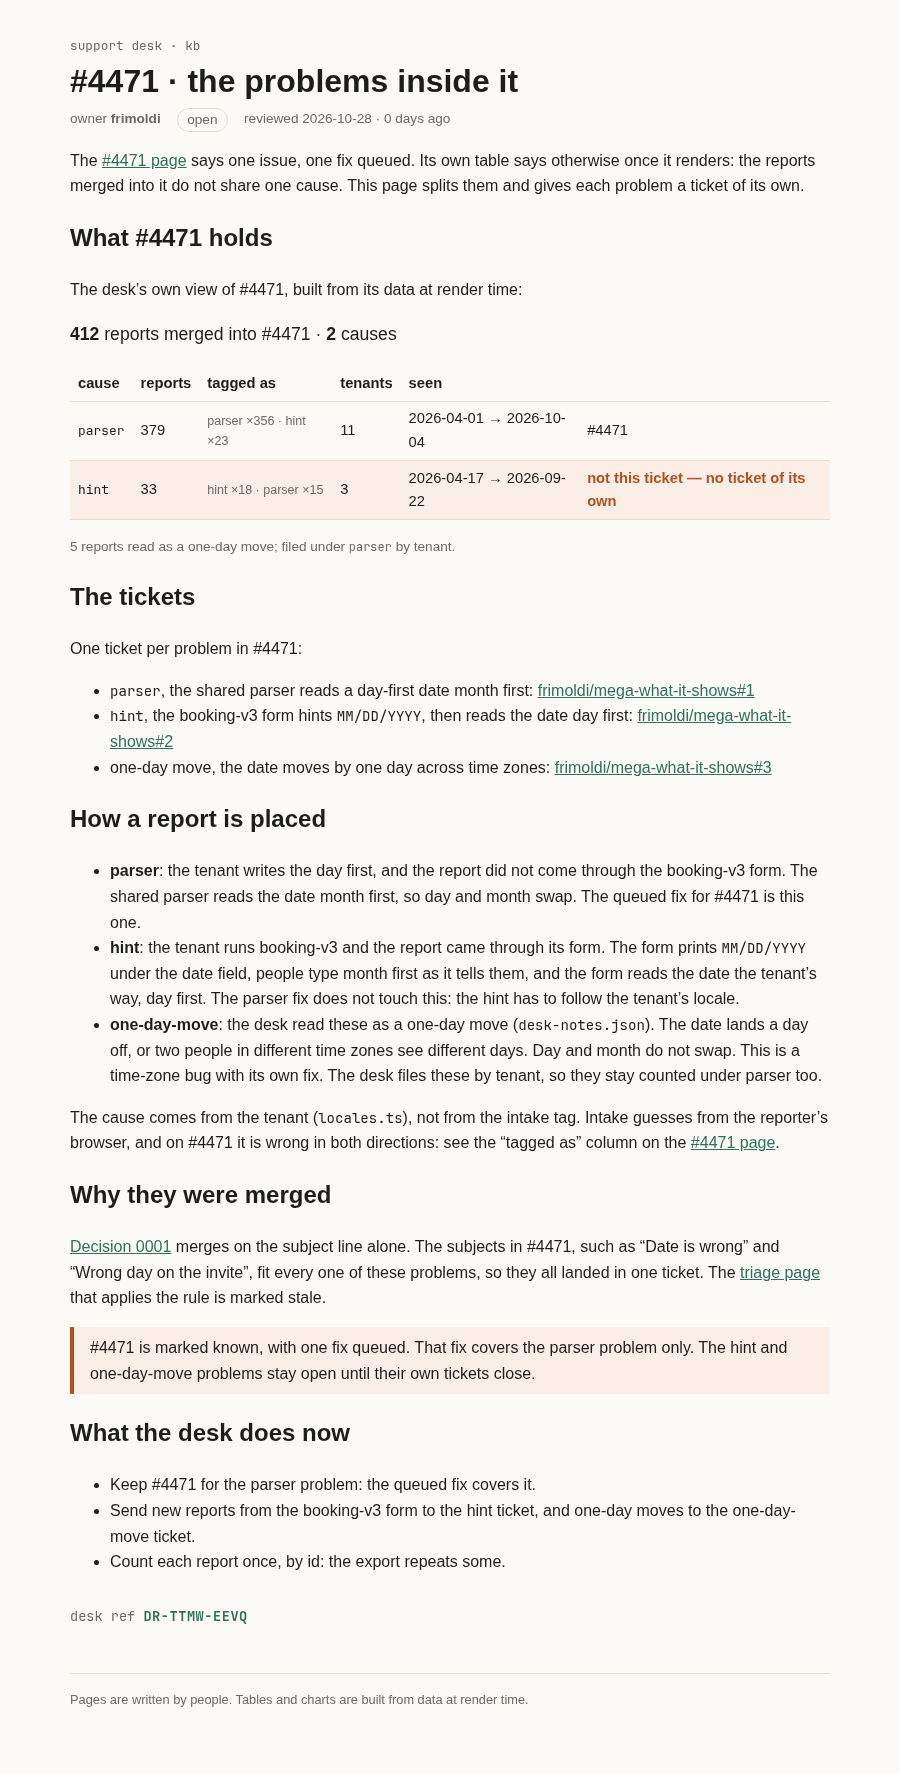
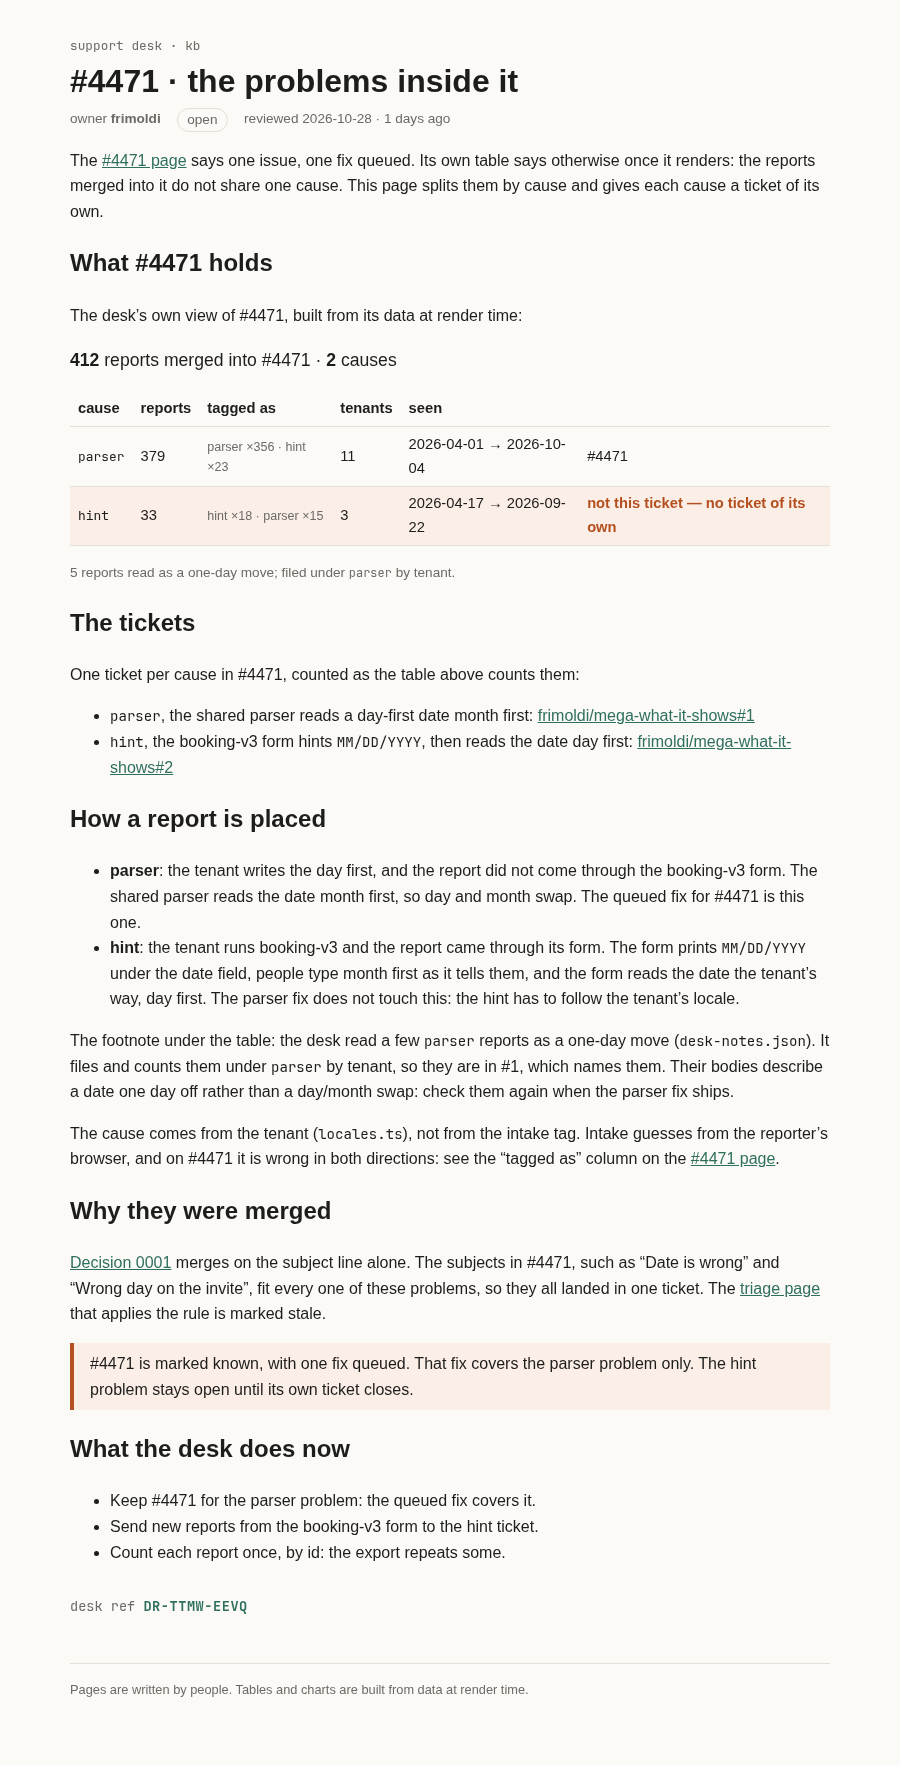
Two tickets, as the desk's view counts #4471
The desk's cause table for #4471 has two causes, parser 379 and hint 33,
which add up to its 412 reports. The 5 one-day moves are filed and counted
under parser, so they are part of #1 rather than a ticket of their own.

diff --git a/rendered/4471-problems.html b/rendered/4471-problems.html
@@ -18,23 +18,22 @@ aside.svelte-17bri61{border-left:4px solid var(--accent);background:var(--note-b
 		<link href="../../../_app/immutable/assets/_page.WePi3wDe.css" rel="stylesheet" disabled media="(max-width: 0)">
   </head>
   <body>
-    <div style="display: contents"><!--[--><!--[--><!--[0--><!--[--><!--[--><!--[-1--><!--[--><div class="kb svelte-e2jw2j"><header><a class="crumb svelte-e2jw2j" href="/kb">support desk · kb</a> <h1 class="svelte-e2jw2j">#4471 · the problems inside it</h1> <p class="meta svelte-e2jw2j"><span>owner <b>frimoldi</b></span> <span class="status open svelte-e2jw2j">open</span> <span class="svelte-e2jw2j">reviewed 2026-10-28 · 0 days ago</span></p></header> <!--[-1--><!--]--> <main><p>The <a href="/kb/incidents/4471">#4471 page</a> says one issue, one fix queued. Its own table says
+    <div style="display: contents"><!--[--><!--[--><!--[0--><!--[--><!--[--><!--[-1--><!--[--><div class="kb svelte-e2jw2j"><header><a class="crumb svelte-e2jw2j" href="/kb">support desk · kb</a> <h1 class="svelte-e2jw2j">#4471 · the problems inside it</h1> <p class="meta svelte-e2jw2j"><span>owner <b>frimoldi</b></span> <span class="status open svelte-e2jw2j">open</span> <span class="svelte-e2jw2j">reviewed 2026-10-28 · 1 days ago</span></p></header> <!--[-1--><!--]--> <main><p>The <a href="/kb/incidents/4471">#4471 page</a> says one issue, one fix queued. Its own table says
 otherwise once it renders: the reports merged into it do not share one cause. This page splits
-them and gives each problem a ticket of its own.</p> <h2>What #4471 holds</h2> <p>The desk’s own view of #4471, built from its data at render time:</p> <p class="sum svelte-12oyimm"><strong>412</strong> reports merged into #4471 · <strong>2</strong> causes</p> <table><thead><tr><th>cause</th><th>reports</th><th>tagged as</th><th>tenants</th><th>seen</th><th></th></tr></thead><tbody><!--[--><tr class="svelte-12oyimm"><td class="svelte-12oyimm"><code>parser</code></td><td class="svelte-12oyimm">379</td><td class="tags svelte-12oyimm">parser ×356 · hint ×23</td><td class="svelte-12oyimm">11</td><td class="svelte-12oyimm">2026-04-01 → 2026-10-04</td><td class="svelte-12oyimm">#4471</td></tr><tr class="svelte-12oyimm wrong"><td class="svelte-12oyimm"><code>hint</code></td><td class="svelte-12oyimm">33</td><td class="tags svelte-12oyimm">hint ×18 · parser ×15</td><td class="svelte-12oyimm">3</td><td class="svelte-12oyimm">2026-04-17 → 2026-09-22</td><td class="svelte-12oyimm">not this ticket — no ticket of its own</td></tr><!--]--></tbody></table> <!--[--><!--[0--><p class="note svelte-12oyimm">5 reports read as a one-day move; filed under <code>parser</code> by tenant.</p><!--]--><!--[-1--><!--]--><!--]--><!----> <h2>The tickets</h2> <p>One ticket per problem in #4471:</p> <ul><li><code>parser</code>, the shared parser reads a day-first date month first: <a href="https://github.com/frimoldi/mega-what-it-shows/issues/1" rel="nofollow">frimoldi/mega-what-it-shows#1</a></li> <li><code>hint</code>, the booking-v3 form hints <code>MM/DD/YYYY</code>, then reads the date day first: <a href="https://github.com/frimoldi/mega-what-it-shows/issues/2" rel="nofollow">frimoldi/mega-what-it-shows#2</a></li> <li>one-day move, the date moves by one day across time zones: <a href="https://github.com/frimoldi/mega-what-it-shows/issues/3" rel="nofollow">frimoldi/mega-what-it-shows#3</a></li></ul> <h2>How a report is placed</h2> <ul><li><strong>parser</strong>: the tenant writes the day first, and the report did not come through the
+them by cause and gives each cause a ticket of its own.</p> <h2>What #4471 holds</h2> <p>The desk’s own view of #4471, built from its data at render time:</p> <p class="sum svelte-12oyimm"><strong>412</strong> reports merged into #4471 · <strong>2</strong> causes</p> <table><thead><tr><th>cause</th><th>reports</th><th>tagged as</th><th>tenants</th><th>seen</th><th></th></tr></thead><tbody><!--[--><tr class="svelte-12oyimm"><td class="svelte-12oyimm"><code>parser</code></td><td class="svelte-12oyimm">379</td><td class="tags svelte-12oyimm">parser ×356 · hint ×23</td><td class="svelte-12oyimm">11</td><td class="svelte-12oyimm">2026-04-01 → 2026-10-04</td><td class="svelte-12oyimm">#4471</td></tr><tr class="svelte-12oyimm wrong"><td class="svelte-12oyimm"><code>hint</code></td><td class="svelte-12oyimm">33</td><td class="tags svelte-12oyimm">hint ×18 · parser ×15</td><td class="svelte-12oyimm">3</td><td class="svelte-12oyimm">2026-04-17 → 2026-09-22</td><td class="svelte-12oyimm">not this ticket — no ticket of its own</td></tr><!--]--></tbody></table> <!--[--><!--[0--><p class="note svelte-12oyimm">5 reports read as a one-day move; filed under <code>parser</code> by tenant.</p><!--]--><!--[-1--><!--]--><!--]--><!----> <h2>The tickets</h2> <p>One ticket per cause in #4471, counted as the table above counts them:</p> <ul><li><code>parser</code>, the shared parser reads a day-first date month first: <a href="https://github.com/frimoldi/mega-what-it-shows/issues/1" rel="nofollow">frimoldi/mega-what-it-shows#1</a></li> <li><code>hint</code>, the booking-v3 form hints <code>MM/DD/YYYY</code>, then reads the date day first: <a href="https://github.com/frimoldi/mega-what-it-shows/issues/2" rel="nofollow">frimoldi/mega-what-it-shows#2</a></li></ul> <h2>How a report is placed</h2> <ul><li><strong>parser</strong>: the tenant writes the day first, and the report did not come through the
 booking-v3 form. The shared parser reads the date month first, so day and month swap. The
 queued fix for #4471 is this one.</li> <li><strong>hint</strong>: the tenant runs booking-v3 and the report came through its form. The form prints <code>MM/DD/YYYY</code> under the date field, people type month first as it tells them, and the form
 reads the date the tenant’s way, day first. The parser fix does not touch this: the hint has
-to follow the tenant’s locale.</li> <li><strong>one-day-move</strong>: the desk read these as a one-day move (<code>desk-notes.json</code>). The date lands
-a day off, or two people in different time zones see different days. Day and month do not
-swap. This is a time-zone bug with its own fix. The desk files these by tenant, so they stay
-counted under parser too.</li></ul> <p>The cause comes from the tenant (<code>locales.ts</code>), not from the intake tag. Intake guesses from
+to follow the tenant’s locale.</li></ul> <p>The footnote under the table: the desk read a few <code>parser</code> reports as a one-day move
+(<code>desk-notes.json</code>). It files and counts them under <code>parser</code> by tenant, so they are in #1, which
+names them. Their bodies describe a date one day off rather than a day/month swap: check them
+again when the parser fix ships.</p> <p>The cause comes from the tenant (<code>locales.ts</code>), not from the intake tag. Intake guesses from
 the reporter’s browser, and on #4471 it is wrong in both directions: see the “tagged as”
 column on the <a href="/kb/incidents/4471">#4471 page</a>.</p> <h2>Why they were merged</h2> <p><a href="/kb/decisions/0001-dedupe-by-subject">Decision 0001</a> merges on the subject line alone. The
 subjects in #4471, such as “Date is wrong” and “Wrong day on the invite”, fit every one of
 these problems, so they all landed in one ticket. The <a href="/kb/triage/dedupe">triage page</a> that applies
 the rule is marked stale.</p> <aside class="warn svelte-17bri61"><!---->#4471 is marked known, with one fix queued. That fix covers the parser problem only. The hint
-and one-day-move problems stay open until their own tickets close.<!----></aside><!----> <h2>What the desk does now</h2> <ul><li>Keep #4471 for the parser problem: the queued fix covers it.</li> <li>Send new reports from the booking-v3 form to the hint ticket, and one-day moves to the
-one-day-move ticket.</li> <li>Count each report once, by id: the export repeats some.</li></ul> <!--[0--><p class="stamp svelte-1280m42">desk ref <b class="svelte-1280m42">DR-TTMW-EEVQ</b></p><!--]--><!----><!----></main> <footer class="svelte-e2jw2j">Pages are written by people. Tables and charts are built from data at render time.</footer></div><!--]--><!--]--><!--]--><!----><!--]--><!--]--><!--]--><!----> <!--[-1--><!--]--><!--]-->
+problem stays open until its own ticket closes.<!----></aside><!----> <h2>What the desk does now</h2> <ul><li>Keep #4471 for the parser problem: the queued fix covers it.</li> <li>Send new reports from the booking-v3 form to the hint ticket.</li> <li>Count each report once, by id: the export repeats some.</li></ul> <!--[0--><p class="stamp svelte-1280m42">desk ref <b class="svelte-1280m42">DR-TTMW-EEVQ</b></p><!--]--><!----><!----></main> <footer class="svelte-e2jw2j">Pages are written by people. Tables and charts are built from data at render time.</footer></div><!--]--><!--]--><!--]--><!----><!--]--><!--]--><!--]--><!----> <!--[-1--><!--]--><!--]-->
 			
 			
 		</div>

diff --git a/README.md b/README.md
@@ -1,14 +1,13 @@
 # What #4471 holds
 
-The support desk merged 412 reports about dates into one ticket, `#4471`, and marked it known: one issue, one fix queued. The desk's own kb renders a different picture. The reports hold three problems, each filed here as an issue:
+The support desk merged 412 reports about dates into one ticket, `#4471`, and marked it known: one issue, one fix queued. The desk's own kb renders a different picture: its cause table for #4471 shows two causes. Each has an issue here:
 
 | Issue | Problem | Reports |
 |---|---|---|
 | [#1](../../issues/1) | The shared parser reads day-first dates month first | 379 |
 | [#2](../../issues/2) | The booking-v3 form hints `MM/DD/YYYY` to day-first tenants | 33 |
-| [#3](../../issues/3) | Dates move by one day across time zones | 5 |
 
-Counts are the desk's, from its export of 2026-10-04: 427 rows, 412 unique reports by id. The desk files a report by tenant and counts it there, so the 5 one-day moves are counted under parser too.
+379 + 33 = 412: every report in #4471, counted once, the desk's way. Counts are from the desk's export of 2026-10-04: 427 rows, 412 unique reports by id. The cause comes from the tenant. The desk read 5 of the parser reports as a one-day move (`desk-notes.json`); it files and counts them under parser and footnotes them, so #1 includes and names them.
 
 ## The kb page
 
